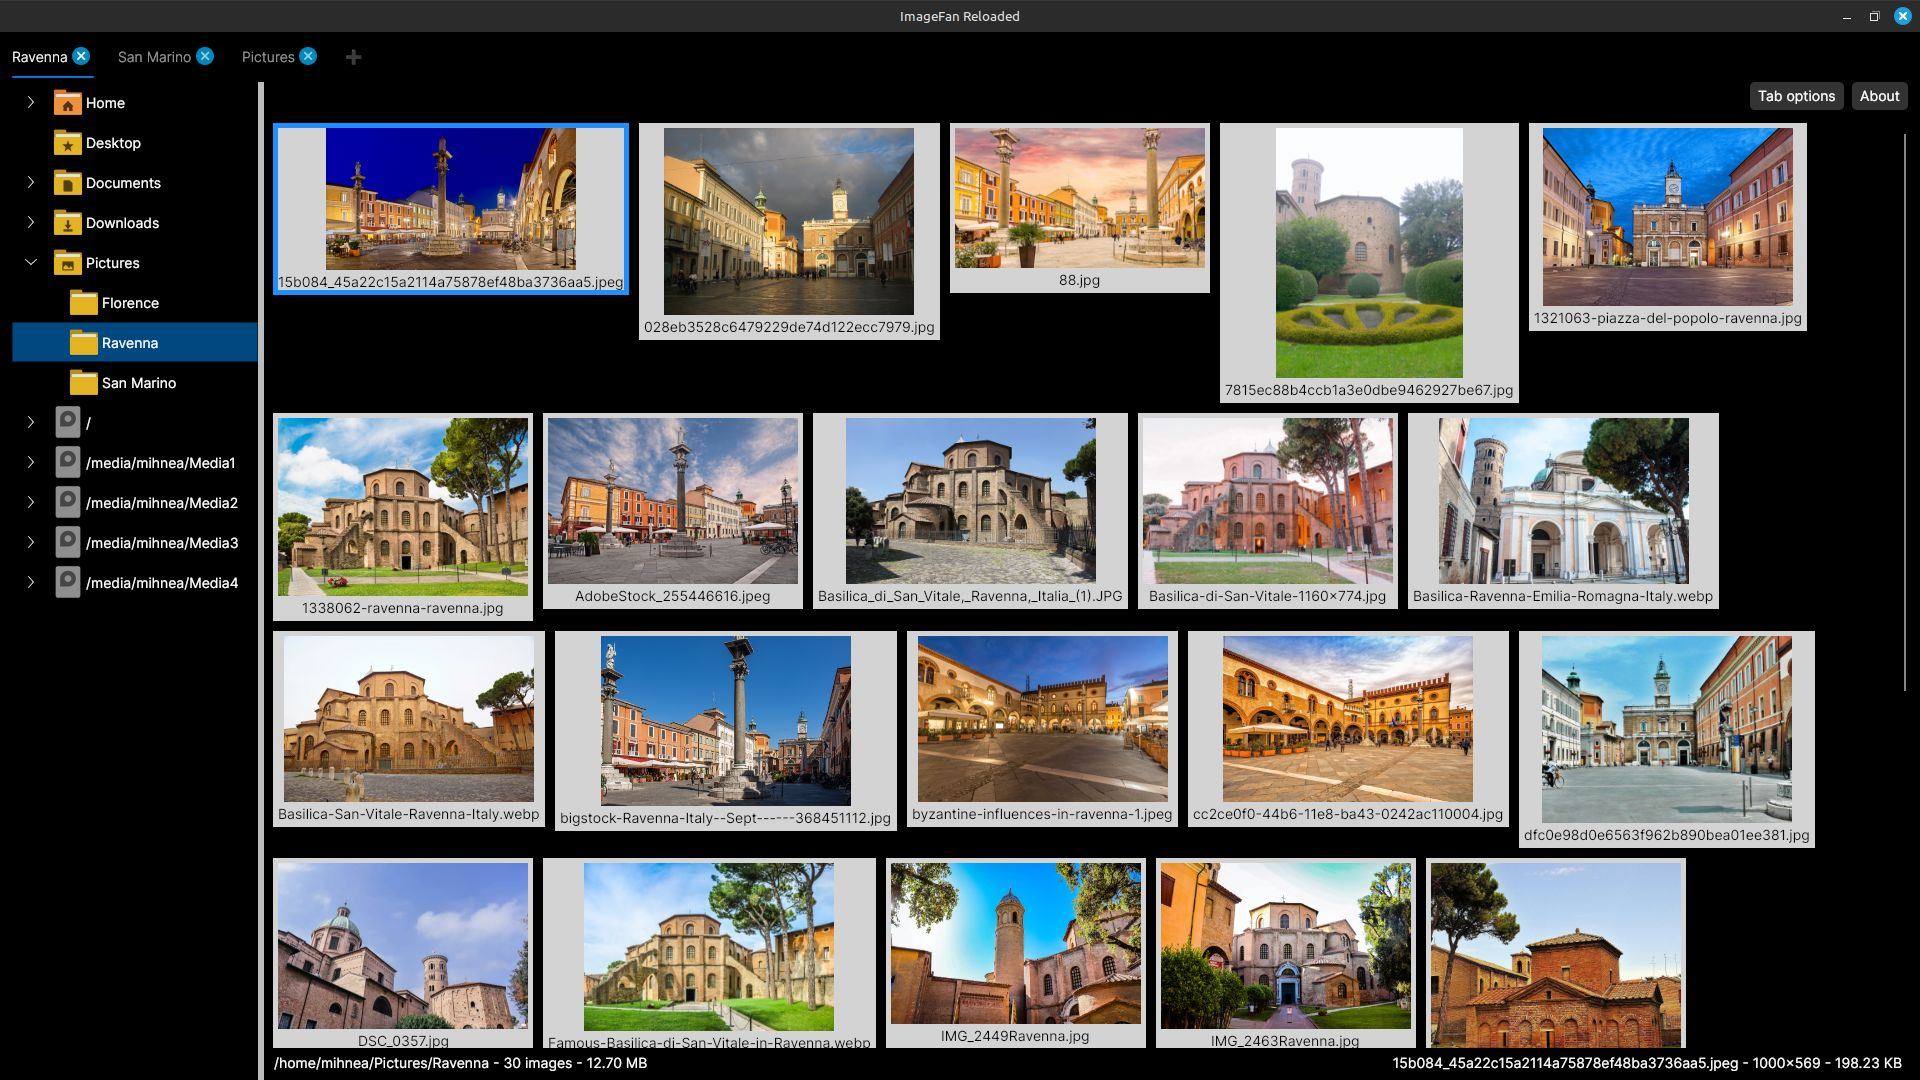
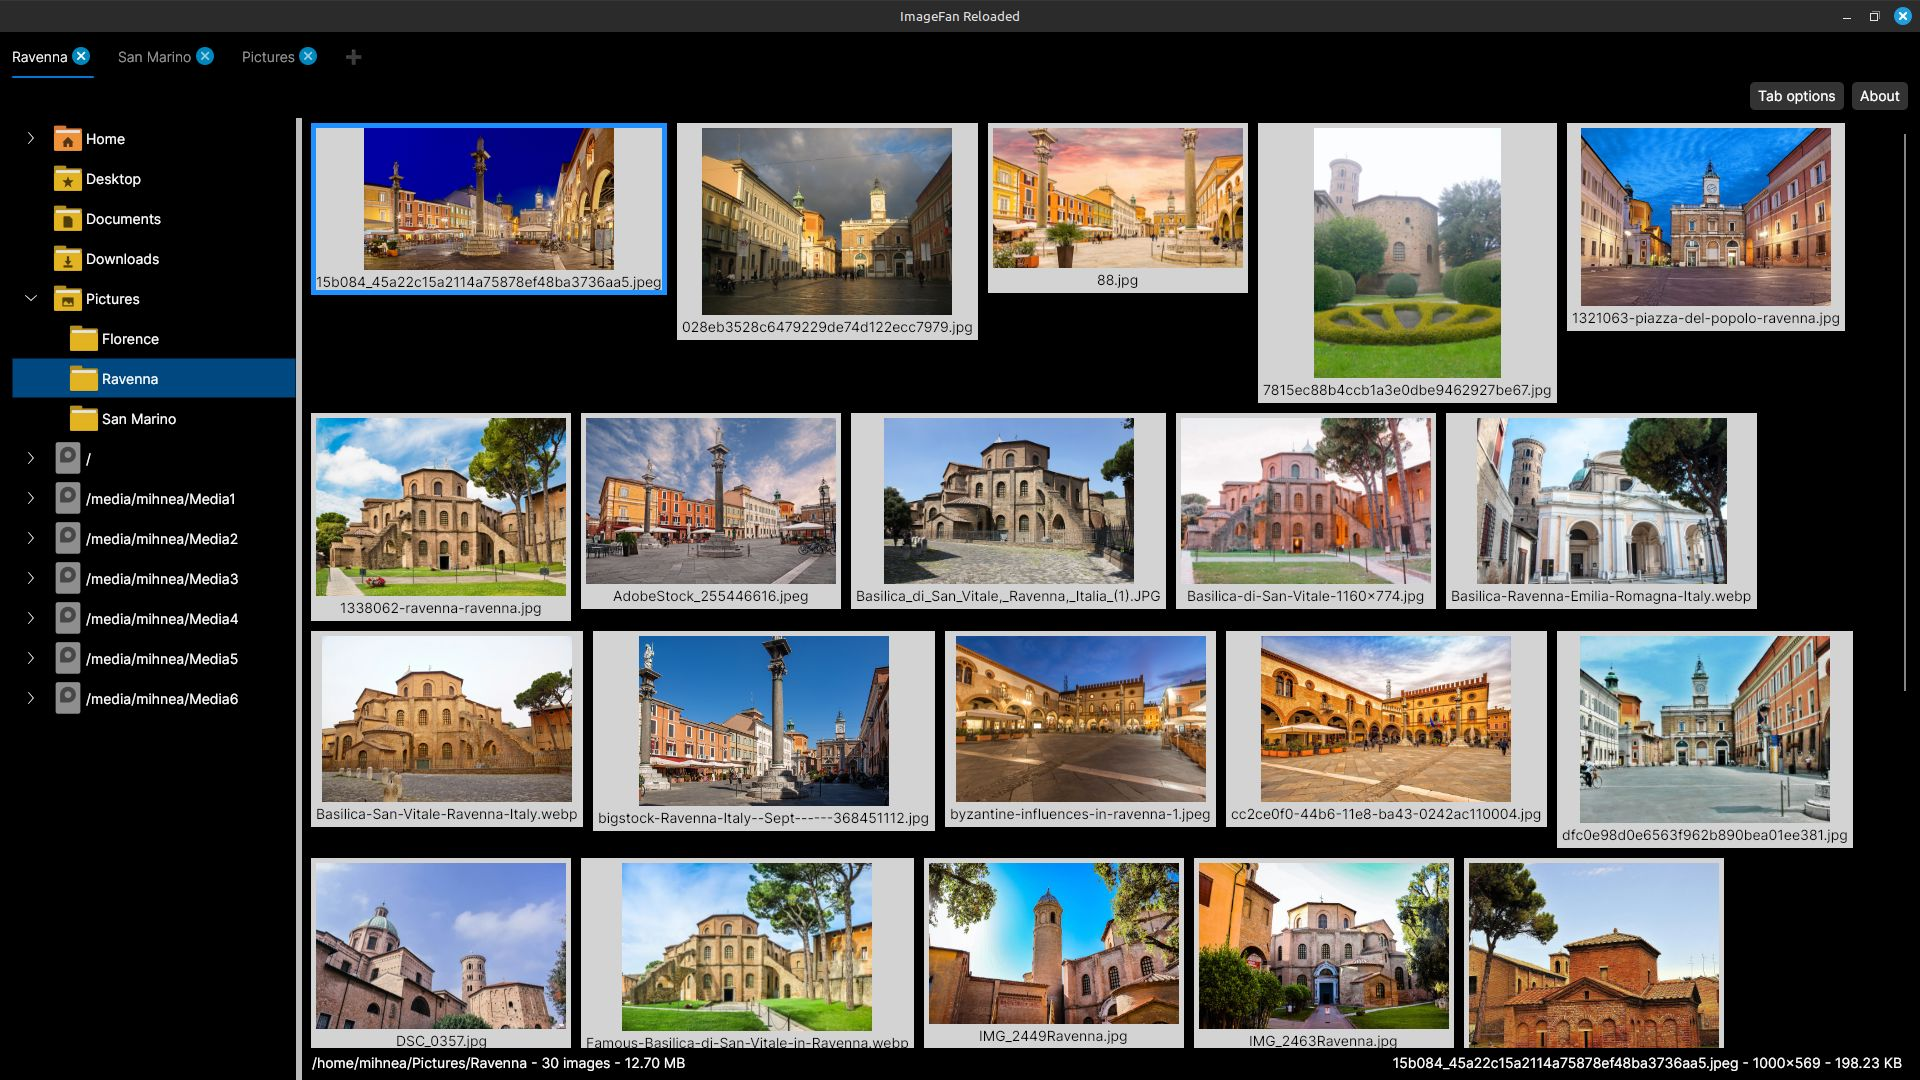
Added panels splitting ratio tab option

diff --git a/ImageFanReloaded/Controls/ContentTabItem.axaml.cs b/ImageFanReloaded/Controls/ContentTabItem.axaml.cs
@@ -20,6 +20,8 @@ public partial class ContentTabItem : UserControl, IContentTabItem
 	public ContentTabItem()
 	{
 		InitializeComponent();
+
+		AddMainGridColumnDefinitions();
 		
 		_thumbnailBoxCollection = new List<IThumbnailBox>();
 	}
@@ -317,6 +319,15 @@ public partial class ContentTabItem : UserControl, IContentTabItem
 		}
 	}
 
+	public void RaisePanelsSplittingRatioChangedEvent()
+	{
+		_folderTreeViewColumn!.Width = new GridLength(
+			TabOptions!.PanelsSplittingRatio, GridUnitType.Star);
+
+		_thumbnailsScrollViewerColumn!.Width = new GridLength(
+			100 - TabOptions!.PanelsSplittingRatio, GridUnitType.Star);
+	}
+
 	public async Task ShowAboutInfo(IAboutView aboutView) => await aboutView.ShowDialog(MainView!);
 	public async Task ShowTabOptions(ITabOptionsView tabOptionsView) => await tabOptionsView.ShowDialog(MainView!);
 	
@@ -324,6 +335,10 @@ public partial class ContentTabItem : UserControl, IContentTabItem
 
     private const string FakeTreeViewItemText = "Loading...";
     private const int ThumbnailScrollAdvanceCount = 25;
+
+	private ColumnDefinition? _folderTreeViewColumn;
+	private ColumnDefinition? _gridSplitterColumn;
+	private ColumnDefinition? _thumbnailsScrollViewerColumn;
     
     private readonly IList<IThumbnailBox> _thumbnailBoxCollection;
     
@@ -402,12 +417,28 @@ public partial class ContentTabItem : UserControl, IContentTabItem
 	private void OnTabOptionsButtonClicked(object? sender, RoutedEventArgs e) => RaiseTabOptionsRequested();
 	private void OnAboutButtonClicked(object? sender, RoutedEventArgs e) => RaiseAboutInfoRequested();
 
-    private void SelectThumbnailBox(IThumbnailBox thumbnailBox)
+	private void AddMainGridColumnDefinitions()
+	{
+		_folderTreeViewColumn = new ColumnDefinition();
+
+		_gridSplitterColumn = new ColumnDefinition
+		{
+			Width = GridLength.Auto
+		};
+
+		_thumbnailsScrollViewerColumn = new ColumnDefinition();
+
+		_contentGrid.ColumnDefinitions.Add(_folderTreeViewColumn);
+		_contentGrid.ColumnDefinitions.Add(_gridSplitterColumn);
+		_contentGrid.ColumnDefinitions.Add(_thumbnailsScrollViewerColumn);
+	}
+
+	private void SelectThumbnailBox(IThumbnailBox thumbnailBox)
 	{
 		if (_selectedThumbnailBox != thumbnailBox)
 		{
 			UnselectThumbnail();
-			
+
 			_selectedThumbnailBox = thumbnailBox;
 			_selectedThumbnailIndex = thumbnailBox.Index;
 
@@ -631,7 +662,7 @@ public partial class ContentTabItem : UserControl, IContentTabItem
 		{
 			var folderTreeViewSelectedItem = GetFolderTreeViewSelectedItem()!;
 
-			if (!folderTreeViewSelectedItem.IsFocused && !_gridSplitter.IsFocused)
+			if (!folderTreeViewSelectedItem.IsFocused)
 			{
 				return true;
 			}
@@ -703,10 +734,6 @@ public partial class ContentTabItem : UserControl, IContentTabItem
 		
 		if (folderTreeViewSelectedItem.IsFocused)
 		{
-			FocusGridSplitter();
-		}
-		else if (_gridSplitter.IsFocused)
-		{
 			FocusThumbnailScrollViewer();
 		}
 		else
@@ -714,8 +741,7 @@ public partial class ContentTabItem : UserControl, IContentTabItem
 			FocusTreeViewItem(folderTreeViewSelectedItem);
 		}
 	}
-	
-	private void FocusGridSplitter() => _gridSplitter.Focus();
+
 	private static void FocusTreeViewItem(TreeViewItem treeViewItem) => treeViewItem.Focus();
 
 	private void ToggleRecursiveFolderAccess()

diff --git a/ImageFanReloaded/Controls/TabOptionsWindow.axaml.cs b/ImageFanReloaded/Controls/TabOptionsWindow.axaml.cs
@@ -1,9 +1,9 @@
 using System;
 using System.Threading.Tasks;
 using Avalonia.Controls;
+using Avalonia.Controls.Primitives;
 using Avalonia.Input;
 using Avalonia.Interactivity;
-using Avalonia.Markup.Xaml.MarkupExtensions;
 using ImageFanReloaded.Core.Controls;
 using ImageFanReloaded.Core.CustomEventArgs;
 using ImageFanReloaded.Core.Settings;
@@ -37,6 +37,8 @@ public partial class TabOptionsWindow : Window, ITabOptionsView
 
 		SetRecursiveFolderBrowsing();
 		SetShowImageViewImageInfo();
+
+		SetPanelsSplittingRatioSlider();
 	}
 
 	public void RegisterTabOptionEvents()
@@ -45,6 +47,8 @@ public partial class TabOptionsWindow : Window, ITabOptionsView
 		_thumbnailSizeComboBox.SelectionChanged += OnThumbnailSizeSelectionChanged;
 		_recursiveFolderBrowsingCheckBox.IsCheckedChanged += OnRecursiveFolderBrowsingIsCheckedChanged;
 		_showImageViewImageInfoCheckBox.IsCheckedChanged += OnShowImageViewImageInfoIsCheckedChanged;
+		_panelsSplittingRatioSlider.ValueChanged += OnPanelsSplittingRatioChanged;
+
 		_saveAsDefaultCheckBox.IsCheckedChanged += OnSaveAsDefaultIsCheckedChanged;
 	}
 
@@ -105,6 +109,14 @@ public partial class TabOptionsWindow : Window, ITabOptionsView
 
 		TabOptions!.ShowImageViewImageInfo = showImageViewImageInfo;
 		_tabOptionChanges.HasChangedShowImageViewImageInfo = true;
+	}
+
+	private void OnPanelsSplittingRatioChanged(object? sender, RangeBaseValueChangedEventArgs e)
+	{
+		var panelsSplittingRatio = (int)_panelsSplittingRatioSlider.Value;
+
+		TabOptions!.PanelsSplittingRatio = panelsSplittingRatio;
+		_tabOptionChanges.HasChangedPanelsSplittingRatio = true;
 	}
 
 	private void OnSaveAsDefaultIsCheckedChanged(object? sender, RoutedEventArgs e)
@@ -178,6 +190,11 @@ public partial class TabOptionsWindow : Window, ITabOptionsView
 	private void SetShowImageViewImageInfo()
 	{
 		_showImageViewImageInfoCheckBox.IsChecked = TabOptions!.ShowImageViewImageInfo;
+	}
+
+	private void SetPanelsSplittingRatioSlider()
+	{
+		_panelsSplittingRatioSlider.Value = TabOptions!.PanelsSplittingRatio;
 	}
 	
 	#endregion

diff --git a/ImageFanReloaded.Core/Settings/Implementation/TabOptions.cs b/ImageFanReloaded.Core/Settings/Implementation/TabOptions.cs
@@ -13,6 +13,7 @@ public class TabOptions : ITabOptions
 	public int ThumbnailSize { get; set; }
 	public bool RecursiveFolderBrowsing { get; set; }
 	public bool ShowImageViewImageInfo { get; set; }
+	public int PanelsSplittingRatio { get; set; }
 
 	static TabOptions()
 	{
@@ -100,6 +101,11 @@ public class TabOptions : ITabOptions
 				return;
 			}
 
+			if (!IsValidPanelsSplittingRatio(loadedTabOptions.PanelsSplittingRatio))
+			{
+				return;
+			}
+
 			DefaultTabOptions = loadedTabOptions;
 		}
 		catch
@@ -119,6 +125,7 @@ public class TabOptions : ITabOptions
 			ThumbnailSize = DefaultTabOptions.ThumbnailSize;
 			RecursiveFolderBrowsing = DefaultTabOptions.RecursiveFolderBrowsing;
 			ShowImageViewImageInfo = DefaultTabOptions.ShowImageViewImageInfo;
+			PanelsSplittingRatio = DefaultTabOptions.PanelsSplittingRatio;
 		}
 		else
 		{
@@ -126,6 +133,7 @@ public class TabOptions : ITabOptions
 			ThumbnailSize = 250;
 			RecursiveFolderBrowsing = false;
 			ShowImageViewImageInfo = false;
+			PanelsSplittingRatio = 15;
 		}
 	}
 
@@ -135,6 +143,7 @@ public class TabOptions : ITabOptions
 		DefaultTabOptions!.ThumbnailSize = ThumbnailSize;
 		DefaultTabOptions!.RecursiveFolderBrowsing = RecursiveFolderBrowsing;
 		DefaultTabOptions!.ShowImageViewImageInfo = ShowImageViewImageInfo;
+		DefaultTabOptions!.PanelsSplittingRatio = PanelsSplittingRatio;
 	}
 
 	private static void PersistDefaultTabOptions()
@@ -179,9 +188,12 @@ public class TabOptions : ITabOptions
 
 	private static bool IsValidFileSystemEntryInfoOrdering(FileSystemEntryInfoOrdering ordering)
 		=> Enum.IsDefined(typeof(FileSystemEntryInfoOrdering), ordering);
-	
+
 	private static bool IsValidThumbnailSize(int thumbnailSize)
 		=> ValidThumbnailSizes.Contains(thumbnailSize);
+
+	private static bool IsValidPanelsSplittingRatio(int panelsSplittingRatio)
+		=> 0 <= panelsSplittingRatio && panelsSplittingRatio <= 100;
 
 	#endregion
 }

diff --git a/ImageFanReloaded.Core/Controls/Implementation/FolderVisualState.cs b/ImageFanReloaded.Core/Controls/Implementation/FolderVisualState.cs
@@ -39,28 +39,32 @@ public class FolderVisualState : IFolderVisualState
 	
 	public void ClearVisualState() => _contentTabItem.ClearThumbnailBoxes(false);
 
-	public async Task UpdateVisualState(
-		FileSystemEntryInfoOrdering fileSystemEntryInfoOrdering, int thumbnailSize, bool recursiveFolderAccess)
+	public async Task UpdateVisualState(ITabOptions tabOptions)
 	{
 		await _folderChangedMutex.Wait();
 		
 		_contentTabItem.ClearThumbnailBoxes(true);
 		_contentTabItem.SetTitle(_folderName);
 
-		var subFolders = await _discQueryEngine.GetSubFolders(_folderPath, fileSystemEntryInfoOrdering);
+		var subFolders = await _discQueryEngine.GetSubFolders(
+			_folderPath, tabOptions.FileSystemEntryInfoOrdering);
 		_contentTabItem.PopulateSubFoldersTree(subFolders);
 
-		var imageFiles = await _discQueryEngine.GetImageFiles(_folderPath, recursiveFolderAccess);
+		var imageFiles = await _discQueryEngine.GetImageFiles(
+			_folderPath, tabOptions.RecursiveFolderBrowsing);
 		var imageFilesCount = imageFiles.Count;
 		
-		var imageFilesTotalSizeOnDiscInMegabytes = await GetImageFilesTotalSizeOnDiscInMegabytes(imageFiles);
+		var imageFilesTotalSizeOnDiscInMegabytes =
+			await GetImageFilesTotalSizeOnDiscInMegabytes(imageFiles);
 		
 		var folderStatusBarText = GetFolderStatusBarText(
-			imageFilesCount, imageFilesTotalSizeOnDiscInMegabytes, recursiveFolderAccess);
+			imageFilesCount,
+			imageFilesTotalSizeOnDiscInMegabytes,
+			tabOptions.RecursiveFolderBrowsing);
 		_contentTabItem.SetFolderStatusBarText(folderStatusBarText);
 		_contentTabItem.SetImageStatusBarText(string.Empty);
 
-		var thumbnails = GetThumbnailInfoCollection(thumbnailSize, imageFiles);
+		var thumbnails = GetThumbnailInfoCollection(tabOptions.ThumbnailSize, imageFiles);
 
 		await ProcessThumbnails(thumbnails);
 

diff --git a/ImageFanReloaded.Core/MainViewPresenter.cs b/ImageFanReloaded.Core/MainViewPresenter.cs
@@ -115,8 +115,10 @@ public class MainViewPresenter
 			tabOptionChanges.HasChangedThumbnailSize ||
 			tabOptionChanges.HasChangedRecursiveFolderBrowsing;
 
-		var shouldRaiseFolderOrderingChangedEvent =
-			tabOptionChanges.HasChangedFolderOrdering;
+		var shouldRaiseFolderOrderingChangedEvent = tabOptionChanges.HasChangedFolderOrdering;
+
+		var shouldRaisePanelsSplittingRatioChangedEvent =
+			tabOptionChanges.HasChangedPanelsSplittingRatio;
 
 		var shouldSaveAsDefault = tabOptionChanges.ShouldSaveAsDefault;
 
@@ -128,6 +130,11 @@ public class MainViewPresenter
 		if (shouldRaiseFolderOrderingChangedEvent)
 		{
 			contentTabItem.RaiseFolderOrderingChangedEvent();
+		}
+
+		if (shouldRaisePanelsSplittingRatioChangedEvent)
+		{
+			contentTabItem.RaisePanelsSplittingRatioChangedEvent();
 		}
 
 		if (shouldSaveAsDefault)
@@ -147,10 +154,7 @@ public class MainViewPresenter
 			e.Name,
 			e.Path);
 
-		await contentTabItem.FolderVisualState.UpdateVisualState(
-			contentTabItem.TabOptions!.FileSystemEntryInfoOrdering,
-			contentTabItem.TabOptions!.ThumbnailSize,
-			e.Recursive);
+		await contentTabItem.FolderVisualState.UpdateVisualState(contentTabItem.TabOptions!);
 	}
 	
 	private async void OnFolderOrderingChanged(object? sender, FolderOrderingChangedEventArgs e)

diff --git a/ImageFanReloaded.Core/Settings/Implementation/TabOptionChanges.cs b/ImageFanReloaded.Core/Settings/Implementation/TabOptionChanges.cs
@@ -6,6 +6,7 @@ public class TabOptionChanges : ITabOptionChanges
 	public bool HasChangedThumbnailSize { get; set; }
 	public bool HasChangedRecursiveFolderBrowsing { get; set; }
 	public bool HasChangedShowImageViewImageInfo { get; set; }
+	public bool HasChangedPanelsSplittingRatio { get; set; }
 
 	public bool ShouldSaveAsDefault { get; set; }
 
@@ -15,6 +16,7 @@ public class TabOptionChanges : ITabOptionChanges
 		HasChangedThumbnailSize = false;
 		HasChangedRecursiveFolderBrowsing = false;
 		HasChangedShowImageViewImageInfo = false;
+		HasChangedPanelsSplittingRatio = false;
 
 		ShouldSaveAsDefault = false;
 	}

diff --git a/ImageFanReloaded/Controls/MainWindow.axaml.cs b/ImageFanReloaded/Controls/MainWindow.axaml.cs
@@ -157,6 +157,8 @@ public partial class MainWindow : Window, IMainView
 		contentTabItem.ContentTabItemHeader.TabClosed += CloseContentTabItem;
 		contentTabItem.RegisterMainViewEvents();
 		contentTabItem.SetTitle(DefaultTabItemTitle);
+
+		contentTabItem.RaisePanelsSplittingRatioChangedEvent();
 		
 		var tabItem = new TabItem
 		{

diff --git a/ImageFanReloaded.Core/Controls/IFolderVisualState.cs b/ImageFanReloaded.Core/Controls/IFolderVisualState.cs
@@ -8,6 +8,5 @@ public interface IFolderVisualState
     void NotifyStopThumbnailGeneration();
     void ClearVisualState();
 
-    Task UpdateVisualState(
-        FileSystemEntryInfoOrdering fileSystemEntryInfoOrdering, int thumbnailSize, bool recursiveFolderAccess);
+	Task UpdateVisualState(ITabOptions tabOptions);
 }

diff --git a/ImageFanReloaded.Core/Settings/ITabOptionChanges.cs b/ImageFanReloaded.Core/Settings/ITabOptionChanges.cs
@@ -6,6 +6,7 @@ public interface ITabOptionChanges
 	bool HasChangedThumbnailSize { get; set; }
 	bool HasChangedRecursiveFolderBrowsing { get; set; }
 	bool HasChangedShowImageViewImageInfo { get; set; }
+	bool HasChangedPanelsSplittingRatio { get; set; }
 
 	bool ShouldSaveAsDefault { get; set; }
 }

diff --git a/ImageFanReloaded.Core/Controls/IContentTabItem.cs b/ImageFanReloaded.Core/Controls/IContentTabItem.cs
@@ -66,6 +66,7 @@ public interface IContentTabItem
 
 	void RaiseFolderChangedEvent();
 	void RaiseFolderOrderingChangedEvent();
+	void RaisePanelsSplittingRatioChangedEvent();
 	
 	Task ShowTabOptions(ITabOptionsView tabOptionsView);
 	Task ShowAboutInfo(IAboutView aboutView);

diff --git a/ImageFanReloaded.Core/Settings/ITabOptions.cs b/ImageFanReloaded.Core/Settings/ITabOptions.cs
@@ -6,6 +6,7 @@ public interface ITabOptions
 	int ThumbnailSize { get; set; }
 	bool RecursiveFolderBrowsing { get; set; }
 	bool ShowImageViewImageInfo { get; set; }
+	int PanelsSplittingRatio { get; set; }
 
 	void SaveDefaultTabOptions();
 }
